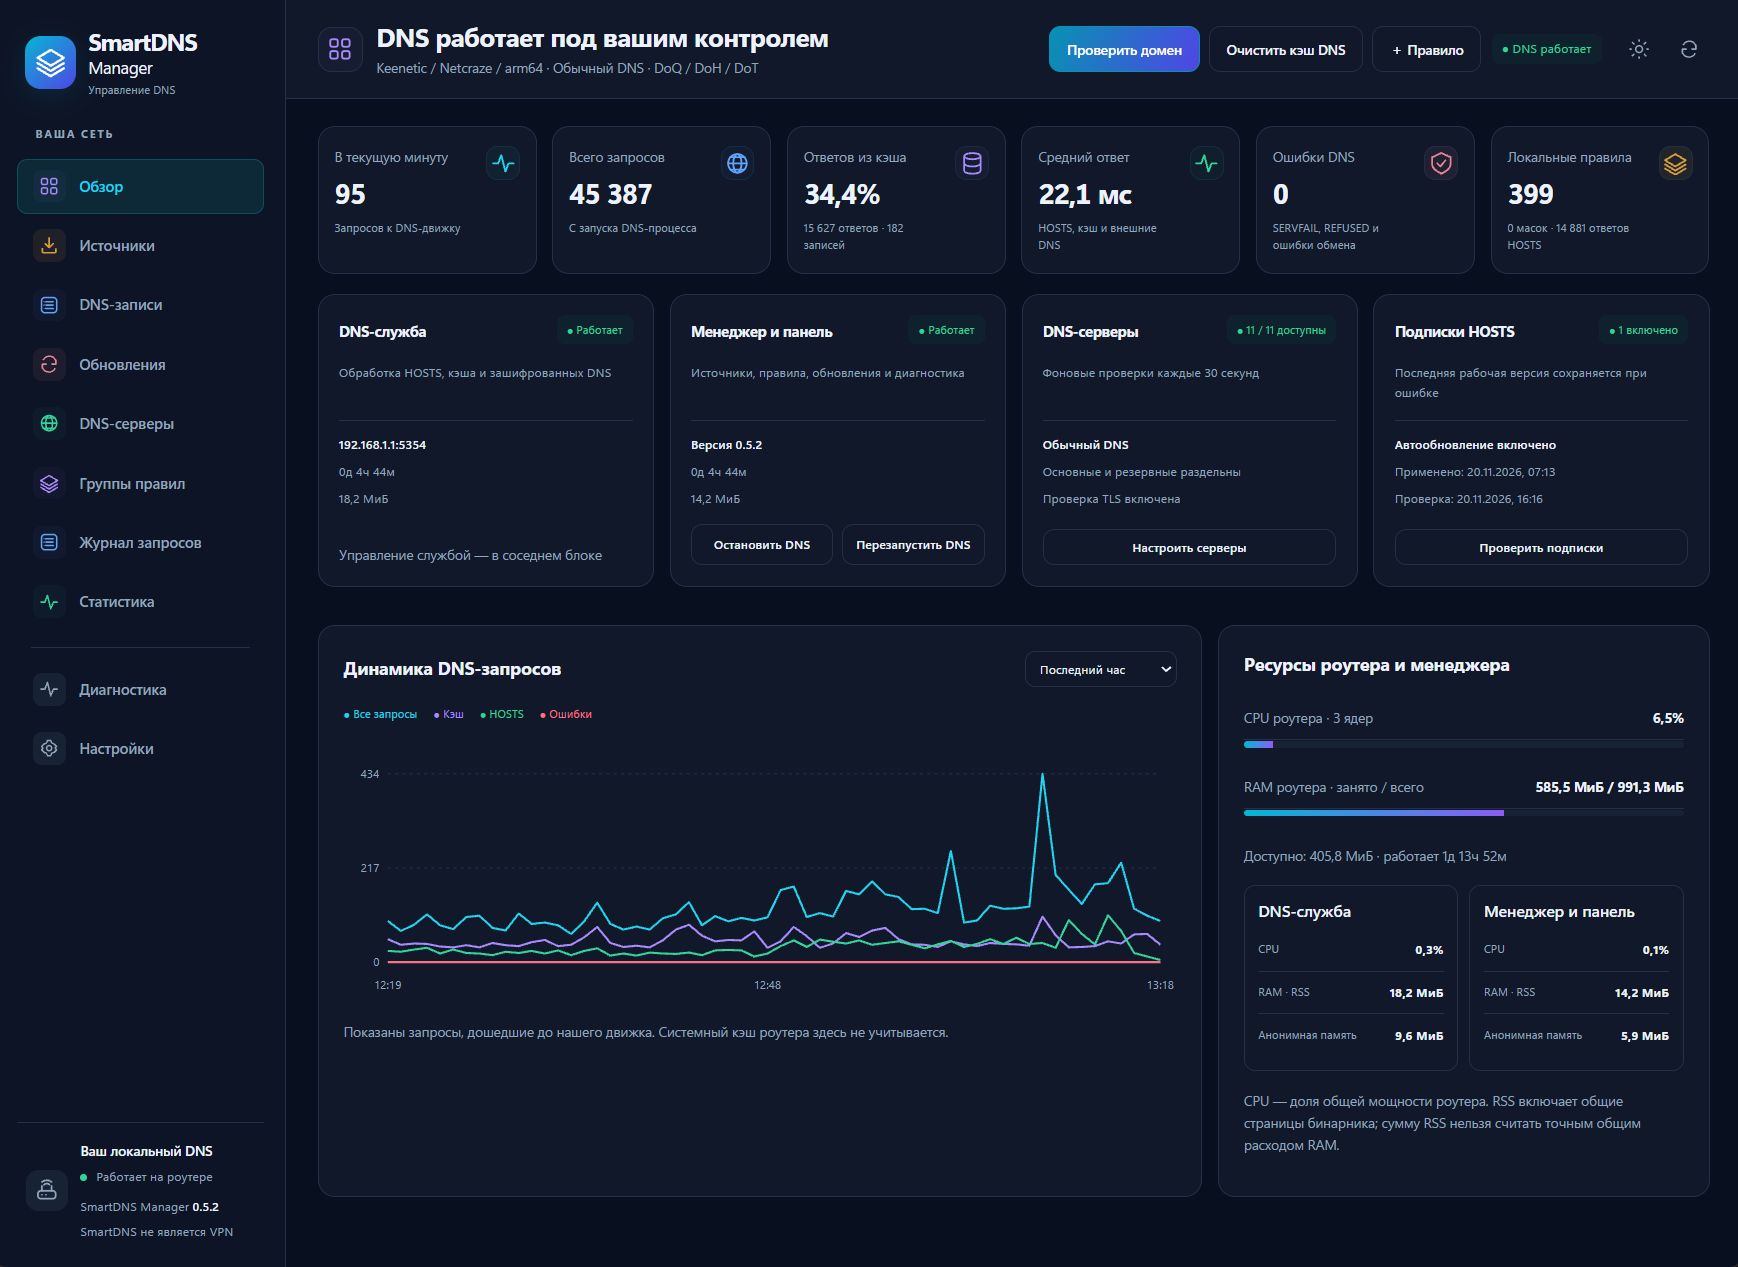
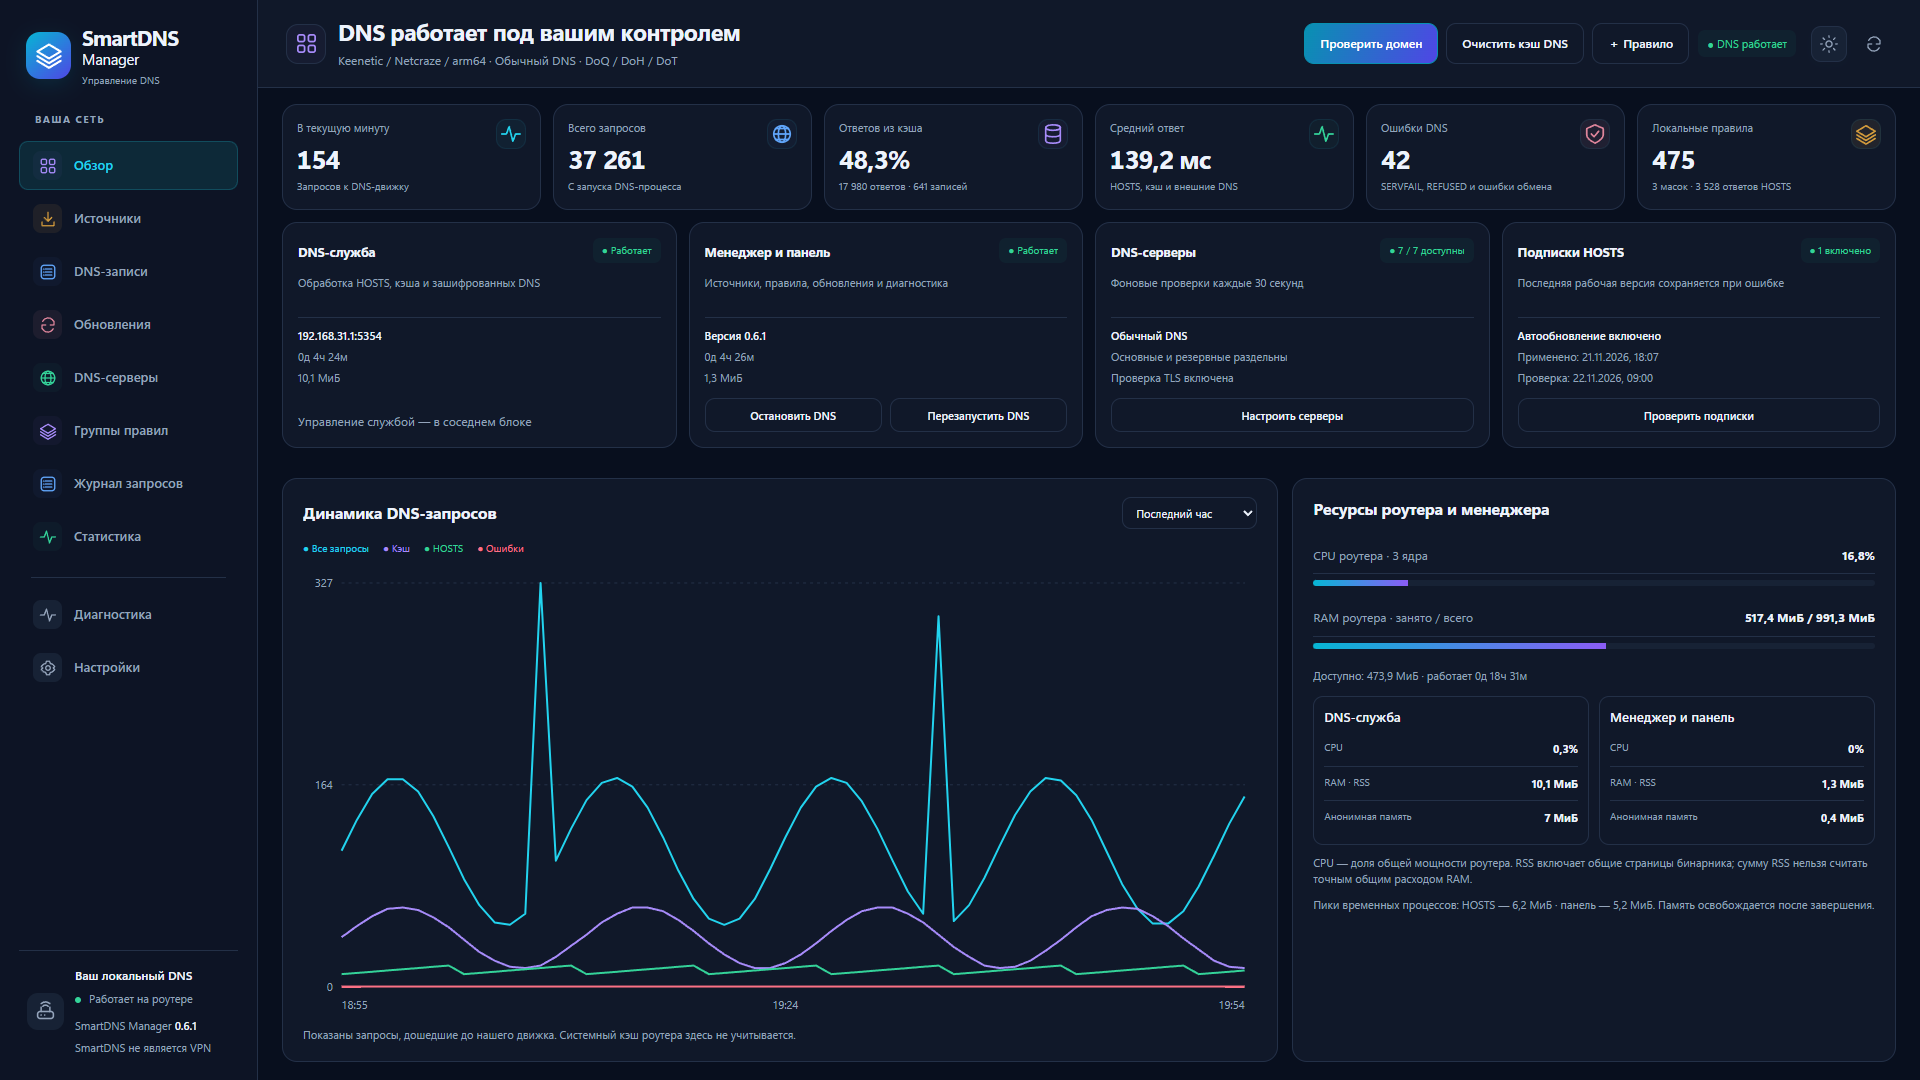
Release 0.6.1: verified DNS recovery, TCP bootstrap and compact dashboard

diff --git a/README.md b/README.md
@@ -1,10 +1,21 @@
 # SmartDNS Manager
 
-**0.6.0 — DNS, менеджер и сервер веб-панели на C11.** Самостоятельный пакет для **Keenetic / Netcraze с Entware** и **OpenWrt**.
+**0.6.1 — DNS, менеджер и сервер веб-панели на C11.** Самостоятельный пакет для **Keenetic / Netcraze с Entware** и **OpenWrt**.
 
 Один статический исполняемый файл, две независимые службы. Остановка панели не останавливает DNS. Обработка подписок, диагностика, экспорт и другие тяжёлые операции выполняются отдельными короткими процессами того же файла. После завершения операции их память возвращается системе.
 
 Выпуск предназначен для **чистой установки**. Установка поверх существующего менеджера запрещена. Для повторной установки сначала выполните полное удаление; настройки и правила при этом удаляются. Обновления подписок HOSTS работают как обычно.
+
+## Исправления 0.6.1
+
+- Проверки UDP/53 и TCP/53 выполняют DNS-запросы и требуют настоящие адресные записи. Успешный TCP учитывается при отсутствии ответа UDP; просто открытый порт не считается успехом.
+- Безопасность установки определяется работой исходного системного DNS роутера. Доступность публичного TCP/53 сама по себе не доказывает, что штатный резолвер сможет использовать его для восстановления.
+- В журнале установки сохраняется снимок настроек DNS Keenetic, включая системные DoH/DoT с URL, портами, SNI и другими параметрами. Пользовательские DNS-профили сохраняются в снимке и не переписываются как глобальные настройки.
+- При откате и полном удалении восстанавливаются исходные настройки, SmartDNS останавливается и проверяется фактическое разрешение домена через исходный системный DNS. Если проверка не пройдена, SmartDNS запускается обратно, а файлы остаются на месте.
+- Начальное разрешение имён внешних DNS-серверов переходит на TCP, если UDP не отвечает. Проверка TLS-сертификатов остаётся обязательной.
+- Главная адаптирована к высоте экрана: шесть показателей, четыре служебные карточки, график и ресурсы. График занимает доступную ширину и высоту без пустых боковых полей. Для небольших экранов остаётся обычная прокрутка; данные не обрезаются ради одного экрана.
+
+Исправление проверяется локальными тестами с моделированием отказов и в Linux/QEMU. Новые сетевые испытания на удалённом роутере для этого выпуска не выполнялись, его конфигурация не изменялась.
 
 ## Установка одной строкой
 
@@ -45,7 +56,7 @@ ARMv7 использует VFPv3-D16, без требования NEON. MIPS —
 
 Скрипт вызывает установленный на роутере менеджер. На Keenetic LAN IPv4 определяется из конфигурации; это позволяет удалить и 0.5.4. Если адрес не определился, передайте `SDM_LAN_IP=192.168.1.1` перед `sh` вместо автоматического определения.
 
-**Локально, без скачивания скрипта**, для 0.6.0 на Keenetic / Netcraze:
+**Локально, без скачивания скрипта**, для 0.6.1 на Keenetic / Netcraze:
 
 ```sh
 /opt/sbin/smartdns-manager uninstall --yes
@@ -69,18 +80,18 @@ OpenWrt:
 
 ## Как перейти на новую версию
 
-Для **0.6.0 используется полное удаление и чистая установка**. Автоматического обновления приложения с сохранением настроек нет; повторный запуск команды установки поверх существующей версии завершится отказом.
+Для **0.6.1 используется полное удаление и чистая установка**. Автоматического обновления приложения с сохранением настроек нет; повторный запуск команды установки поверх существующей версии завершится отказом.
 
 1. Экспортируйте нужные данные из панели на компьютер. Сохраните адрес Gateway, свои DNS-серверы, источники и правила для повторной настройки.
 2. Выполните **команду онлайн-удаления выше**. Дождитесь успешного завершения. Если удаление завершилось ошибкой, установку не запускайте.
 3. Выполните **команду онлайн-установки из начала README** — она скачает актуальную опубликованную версию для вашей платформы.
 4. Откройте панель и настройте менеджер заново. Начальный режим — Обычный DNS; личный Gateway автоматически не переносится.
 
-Это относится и к переходу **0.5.4 → 0.6.0**. Старый снимок сохраняйте как справочную копию; автоматический перенос настроек между этими выпусками не предусмотрен. Раздел «Обновления» в панели управляет подписками HOSTS, а не версией приложения.
+Это относится и к переходу **0.5.4 → 0.6.1**. Старый снимок сохраняйте как справочную копию; автоматический перенос настроек между этими выпусками не предусмотрен. Раздел «Обновления» в панели управляет подписками HOSTS, а не версией приложения.
 
 ## Автономная установка
 
-Скачайте [автономный ZIP 0.6.0](https://github.com/shurshick/SmartDNS_Manager/releases/download/v0.6.0/SmartDNS-Manager-v0.6.0-offline.zip), распакуйте и передайте всю папку на роутер, например в `/tmp/smartdns-kit`.
+Скачайте [автономный ZIP 0.6.1](https://github.com/shurshick/SmartDNS_Manager/releases/download/v0.6.1/SmartDNS-Manager-v0.6.1-offline.zip), распакуйте и передайте всю папку на роутер, например в `/tmp/smartdns-kit`.
 
 ```sh
 cd /tmp/smartdns-kit
@@ -131,19 +142,19 @@ quic://doq.ffmuc.net
 
 SmartDNS управляет разрешением имён и **не является VPN**. Доступность внешних Smart DNS-сервисов зависит от их операторов. Маршрутизацию VPN пакет не настраивает.
 
-## Изменения 0.6.0 и проверки
+## Архитектура ветки 0.6 и проверки
 
 DNS, менеджер, управляющие команды и сервер панели перенесены на C11. В комплекте один статический файл. Убраны установка поверх старого приложения и перенос старой установки. Подписки HOSTS, их расписание и резервные копии сохранены.
 
 Исправлена утечка памяти в json-c 0.19 при отключённых проверках `assert`: используется [исправление upstream](https://github.com/json-c/json-c/pull/936). Добавлен тест тысяч снимков статистики в готовых сборках. Тяжёлые операции вынесены из постоянного процесса панели; статистика DNS передаётся без повторного разбора всей истории.
 
-Состав испытаний и результаты приведены в описании [текущего выпуска](https://github.com/shurshick/SmartDNS_Manager/releases/tag/v0.6.0). Эмуляция не заменяет проверку прошивки, перезагрузки и сети конкретного роутера. Выпуск отмечен предварительным до расширения аппаратных испытаний OpenWrt и остальных архитектур.
+Состав испытаний и результаты приведены в описании [текущего выпуска](https://github.com/shurshick/SmartDNS_Manager/releases/tag/v0.6.1). Эмуляция не заменяет проверку прошивки, перезагрузки и сети конкретного роутера. Выпуск отмечен предварительным до расширения аппаратных испытаний OpenWrt и остальных архитектур.
 
 ## Скриншоты
 
-Скриншоты показывают оформление и разделы панели; на иллюстрациях сохранён номер прежней версии.
+Главная показана в версии 0.6.1 на демонстрационных данных. Остальные скриншоты показывают разделы прежней версии; их оформление может отличаться.
 
-![Обзор](screenshots/dashboard.png)
+![Главная 0.6.1 — демонстрационные данные](screenshots/dashboard.png)
 
 <details><summary>Источники, серверы, журнал и статистика</summary>
 
